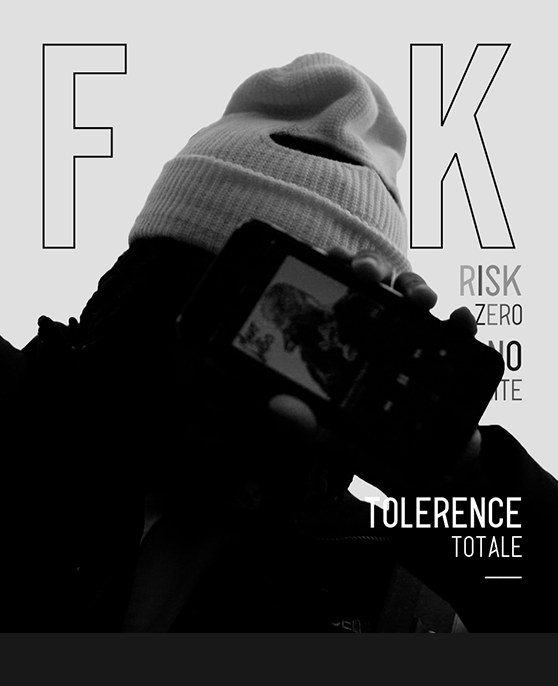
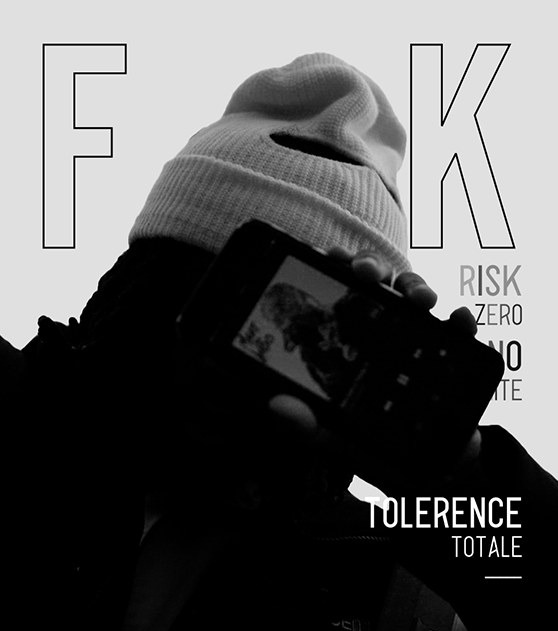
Accueil : retirer la bande de cadre cuite dans sport.jpg et studio.jpg  Les deux vignettes avaient été régénérées depuis un découpage de maquette pris pour une photo source, qui embarquait 55 px (Sport) et 73 px (Studio) de la couleur du cadre. La bande apparaissait dès que le JS agrandissait les vi

diff --git a/index.html b/index.html
@@ -1,5 +1,5 @@
 <!DOCTYPE html>
-<html lang="fr" data-build="20260902-0219">
+<html lang="fr" data-build="20260904-1633">
 <head>
 <meta charset="utf-8">
 <meta http-equiv="Cache-Control" content="no-cache, no-store, must-revalidate">
@@ -10,7 +10,7 @@
 <meta name="description" content="JP AYIVI, créateur d'images : réalisation, montage et motion design pour les marques, entreprises et institutions.">
 <link rel="preload" href="assets/fonts/JumperPERSONALUSEONLY-Black.ttf" as="font" type="font/ttf" crossorigin>
 <link rel="preload" href="assets/fonts/JumperPERSONALUSEONLY-Light.ttf" as="font" type="font/ttf" crossorigin>
-<link rel="stylesheet" href="assets/css/style.css?v=8b686db5">
+<link rel="stylesheet" href="assets/css/style.css?v=ea8efc0c">
 </head>
 <body class="home-page">
 <div class="pastille-cursor" aria-hidden="true"><span>Show<br>Reeel</span></div>
@@ -61,7 +61,7 @@
     <a class="card card--sport" href="sport.html">
       <span class="label">Sport</span>
       <span class="thumb">
-        <img src="media/sport.jpg" alt="Sport" loading="lazy">
+        <img src="media/sport.jpg?v=2" alt="Sport" loading="lazy">
         <video class="gif" src="media/sport_hover.mp4" muted loop autoplay playsinline></video>
       </span>
     </a>
@@ -101,7 +101,7 @@
     <a class="card card--studio" href="studio.html">
       <span class="label">Studio</span>
       <span class="thumb">
-        <img src="media/studio.jpg" alt="Studio" loading="lazy">
+        <img src="media/studio.jpg?v=2" alt="Studio" loading="lazy">
         <video class="gif" src="media/studio_hover.mp4" muted loop autoplay playsinline></video>
       </span>
     </a>
@@ -117,6 +117,6 @@
   </div>
 </div>
 
-<script src="assets/js/cursor.js?v=8ef6da95"></script>
+<script src="assets/js/cursor.js?v=de20defd"></script>
 </body>
 </html>

diff --git a/assets/js/cursor.js b/assets/js/cursor.js
@@ -373,6 +373,18 @@
     var k = 1;
     if (grille > placeCartes && grille > 0) k = Math.max(PLANCHER, placeCartes / grille);
 
+    /* La carte ouverte descend jusqu'à (B + 2R + reserve) * k. Les photos, elles,
+       ont une hauteur finie : la plus courte est Studio, 79,43 % de la largeur de
+       l'écran. Si le dévoilement passait sous ce trait, on verrait le fond du
+       cadre sous la photo. On borne donc R, ce qui fait simplement s'ouvrir la
+       carte un peu moins loin — invisible, et sans déformer l'image.
+       Sur les téléphones réels la borne n'intervient jamais (la marge la plus
+       serrée mesurée est de 11 % sur Pixel 7) ; elle ne protège que les formats
+       très étroits et très hauts. */
+    var PHOTO_LA_PLUS_COURTE = 0.7943;
+    var Rmax2 = (PHOTO_LA_PLUS_COURTE * L / k - B - reserve) / 2;
+    if (Rmax2 > 0 && R > Rmax2) R = Rmax2;
+
     home.style.setProperty('--carte-h',      ((B + R + reserve) * k).toFixed(2) + 'px');
     home.style.setProperty('--carte-mt',     '-' + ((R + reserve) * k).toFixed(2) + 'px');
     home.style.setProperty('--carte-sortie', '-' + (R * k).toFixed(2) + 'px');

diff --git a/assets/css/style.css b/assets/css/style.css
@@ -1366,6 +1366,15 @@ body:has(.gallery-wrap) .brand .sub{
     left:-2.500vw;  top:-9.166vw;  width:72.23vw;  height:88.61vw; transform:scaleX(-1); }
   .card--studio .thumb img,.card--studio .thumb video{
     left:-2.778vw;  top:-11.945vw; width:72.23vw;  height:88.89vw; }
+  /* Les PHOTOS Sport et Studio ont été raccourcies : elles traînaient une bande
+     unie de la couleur du cadre, cuite dans le fichier par un découpage de
+     maquette pris pour un original. Sport passe de 686 à 631 lignes, Studio de
+     686 à 613. Les hauteurs ci-dessus visaient l'ancien format ; on les corrige
+     du même rapport pour que l'ÉCHELLE et le cadrage restent au pixel ce qu'ils
+     étaient — seul le vide sous la photo disparaît. Les vidéos de survol, elles,
+     n'ont pas changé de format et gardent donc les valeurs d'origine. */
+  .card--sport  .thumb img{ height:96.83vw; }   /* 105,27 x 631/686 */
+  .card--studio .thumb img{ height:79.43vw; }   /*  88,89 x 613/686 */
 
   /* ---- Bandeau de contacts ----
      Relevé sur la maquette : bandeau de 160 px sur une image de 1080, soit

diff --git a/reseaux.html b/reseaux.html
@@ -1,5 +1,5 @@
 <!DOCTYPE html>
-<html lang="fr" data-build="20260902-0219">
+<html lang="fr" data-build="20260904-1633">
 <head>
 <meta charset="utf-8">
 <meta http-equiv="Cache-Control" content="no-cache, no-store, must-revalidate">
@@ -10,7 +10,7 @@
 <meta name="description" content="Réseaux Sociaux — contenus courts, formats verticaux et campagnes social media réalisés par JP AYIVI.">
 <link rel="preload" href="assets/fonts/JumperPERSONALUSEONLY-Black.ttf" as="font" type="font/ttf" crossorigin>
 <link rel="preload" href="assets/fonts/JumperPERSONALUSEONLY-Light.ttf" as="font" type="font/ttf" crossorigin>
-<link rel="stylesheet" href="assets/css/style.css?v=8b686db5">
+<link rel="stylesheet" href="assets/css/style.css?v=ea8efc0c">
 </head>
 <body>
 <div class="pastille-cursor" aria-hidden="true"><span>Show<br>Reeel</span></div>
@@ -135,6 +135,6 @@
   </nav>
 </footer>
 
-<script src="assets/js/cursor.js?v=8ef6da95"></script>
+<script src="assets/js/cursor.js?v=de20defd"></script>
 </body>
 </html>

diff --git a/motion.html b/motion.html
@@ -1,5 +1,5 @@
 <!DOCTYPE html>
-<html lang="fr" data-build="20260902-0219">
+<html lang="fr" data-build="20260904-1633">
 <head>
 <meta charset="utf-8">
 <meta http-equiv="Cache-Control" content="no-cache, no-store, must-revalidate">
@@ -10,7 +10,7 @@
 <meta name="description" content="Motion design — habillages, génériques et films d'animation réalisés par JP AYIVI.">
 <link rel="preload" href="assets/fonts/JumperPERSONALUSEONLY-Black.ttf" as="font" type="font/ttf" crossorigin>
 <link rel="preload" href="assets/fonts/JumperPERSONALUSEONLY-Light.ttf" as="font" type="font/ttf" crossorigin>
-<link rel="stylesheet" href="assets/css/style.css?v=8b686db5">
+<link rel="stylesheet" href="assets/css/style.css?v=ea8efc0c">
 </head>
 <body>
 <div class="pastille-cursor" aria-hidden="true"><span>Show<br>Reeel</span></div>
@@ -153,6 +153,6 @@
   </nav>
 </footer>
 
-<script src="assets/js/cursor.js?v=8ef6da95"></script>
+<script src="assets/js/cursor.js?v=de20defd"></script>
 </body>
 </html>

diff --git a/fashion.html b/fashion.html
@@ -1,5 +1,5 @@
 <!DOCTYPE html>
-<html lang="fr" data-build="20260902-0219">
+<html lang="fr" data-build="20260904-1633">
 <head>
 <meta charset="utf-8">
 <meta http-equiv="Cache-Control" content="no-cache, no-store, must-revalidate">
@@ -10,7 +10,7 @@
 <meta name="description" content="Fashion — défilés, films de mode et campagnes textiles réalisés par JP AYIVI.">
 <link rel="preload" href="assets/fonts/JumperPERSONALUSEONLY-Black.ttf" as="font" type="font/ttf" crossorigin>
 <link rel="preload" href="assets/fonts/JumperPERSONALUSEONLY-Light.ttf" as="font" type="font/ttf" crossorigin>
-<link rel="stylesheet" href="assets/css/style.css?v=8b686db5">
+<link rel="stylesheet" href="assets/css/style.css?v=ea8efc0c">
 </head>
 <body>
 <div class="pastille-cursor" aria-hidden="true"><span>Show<br>Reeel</span></div>
@@ -105,6 +105,6 @@
   </nav>
 </footer>
 
-<script src="assets/js/cursor.js?v=8ef6da95"></script>
+<script src="assets/js/cursor.js?v=de20defd"></script>
 </body>
 </html>

diff --git a/studio.html b/studio.html
@@ -1,5 +1,5 @@
 <!DOCTYPE html>
-<html lang="fr" data-build="20260902-0219">
+<html lang="fr" data-build="20260904-1633">
 <head>
 <meta charset="utf-8">
 <meta http-equiv="Cache-Control" content="no-cache, no-store, must-revalidate">
@@ -10,7 +10,7 @@
 <meta name="description" content="Studio · Natures mortes, packshots et contenus produits réalisés par JP AYIVI.">
 <link rel="preload" href="assets/fonts/JumperPERSONALUSEONLY-Black.ttf" as="font" type="font/ttf" crossorigin>
 <link rel="preload" href="assets/fonts/JumperPERSONALUSEONLY-Light.ttf" as="font" type="font/ttf" crossorigin>
-<link rel="stylesheet" href="assets/css/style.css?v=8b686db5">
+<link rel="stylesheet" href="assets/css/style.css?v=ea8efc0c">
 </head>
 <body>
 <div class="pastille-cursor" aria-hidden="true"><span>Show<br>Reeel</span></div>
@@ -103,6 +103,6 @@
   </nav>
 </footer>
 
-<script src="assets/js/cursor.js?v=8ef6da95"></script>
+<script src="assets/js/cursor.js?v=de20defd"></script>
 </body>
 </html>

diff --git a/communication.html b/communication.html
@@ -1,5 +1,5 @@
 <!DOCTYPE html>
-<html lang="fr" data-build="20260902-0219">
+<html lang="fr" data-build="20260904-1633">
 <head>
 <meta charset="utf-8">
 <meta http-equiv="Cache-Control" content="no-cache, no-store, must-revalidate">
@@ -10,7 +10,7 @@
 <meta name="description" content="Communication — films de marque, com interne et externe réalisés par JP AYIVI.">
 <link rel="preload" href="assets/fonts/JumperPERSONALUSEONLY-Black.ttf" as="font" type="font/ttf" crossorigin>
 <link rel="preload" href="assets/fonts/JumperPERSONALUSEONLY-Light.ttf" as="font" type="font/ttf" crossorigin>
-<link rel="stylesheet" href="assets/css/style.css?v=8b686db5">
+<link rel="stylesheet" href="assets/css/style.css?v=ea8efc0c">
 </head>
 <body>
 <div class="pastille-cursor" aria-hidden="true"><span>Show<br>Reeel</span></div>
@@ -89,6 +89,6 @@
   </nav>
 </footer>
 
-<script src="assets/js/cursor.js?v=8ef6da95"></script>
+<script src="assets/js/cursor.js?v=de20defd"></script>
 </body>
 </html>

diff --git a/evenementiel.html b/evenementiel.html
@@ -1,5 +1,5 @@
 <!DOCTYPE html>
-<html lang="fr" data-build="20260902-0219">
+<html lang="fr" data-build="20260904-1633">
 <head>
 <meta charset="utf-8">
 <meta http-equiv="Cache-Control" content="no-cache, no-store, must-revalidate">
@@ -10,7 +10,7 @@
 <meta name="description" content="Événementiel — captations et films d'événements réalisés par JP AYIVI.">
 <link rel="preload" href="assets/fonts/JumperPERSONALUSEONLY-Black.ttf" as="font" type="font/ttf" crossorigin>
 <link rel="preload" href="assets/fonts/JumperPERSONALUSEONLY-Light.ttf" as="font" type="font/ttf" crossorigin>
-<link rel="stylesheet" href="assets/css/style.css?v=8b686db5">
+<link rel="stylesheet" href="assets/css/style.css?v=ea8efc0c">
 </head>
 <body>
 <div class="pastille-cursor" aria-hidden="true"><span>Show<br>Reeel</span></div>
@@ -89,6 +89,6 @@
   </nav>
 </footer>
 
-<script src="assets/js/cursor.js?v=8ef6da95"></script>
+<script src="assets/js/cursor.js?v=de20defd"></script>
 </body>
 </html>

diff --git a/food.html b/food.html
@@ -1,5 +1,5 @@
 <!DOCTYPE html>
-<html lang="fr" data-build="20260902-0219">
+<html lang="fr" data-build="20260904-1633">
 <head>
 <meta charset="utf-8">
 <meta http-equiv="Cache-Control" content="no-cache, no-store, must-revalidate">
@@ -10,7 +10,7 @@
 <meta name="description" content="Food — cocktails, pizze et films culinaires réalisés par JP AYIVI.">
 <link rel="preload" href="assets/fonts/JumperPERSONALUSEONLY-Black.ttf" as="font" type="font/ttf" crossorigin>
 <link rel="preload" href="assets/fonts/JumperPERSONALUSEONLY-Light.ttf" as="font" type="font/ttf" crossorigin>
-<link rel="stylesheet" href="assets/css/style.css?v=8b686db5">
+<link rel="stylesheet" href="assets/css/style.css?v=ea8efc0c">
 </head>
 <body>
 <div class="pastille-cursor" aria-hidden="true"><span>Show<br>Reeel</span></div>
@@ -124,6 +124,6 @@
   </nav>
 </footer>
 
-<script src="assets/js/cursor.js?v=8ef6da95"></script>
+<script src="assets/js/cursor.js?v=de20defd"></script>
 </body>
 </html>

diff --git a/sport.html b/sport.html
@@ -1,5 +1,5 @@
 <!DOCTYPE html>
-<html lang="fr" data-build="20260902-0219">
+<html lang="fr" data-build="20260904-1633">
 <head>
 <meta charset="utf-8">
 <meta http-equiv="Cache-Control" content="no-cache, no-store, must-revalidate">
@@ -10,7 +10,7 @@
 <meta name="description" content="Sport — tennis, basket et films de terrain réalisés par JP AYIVI.">
 <link rel="preload" href="assets/fonts/JumperPERSONALUSEONLY-Black.ttf" as="font" type="font/ttf" crossorigin>
 <link rel="preload" href="assets/fonts/JumperPERSONALUSEONLY-Light.ttf" as="font" type="font/ttf" crossorigin>
-<link rel="stylesheet" href="assets/css/style.css?v=8b686db5">
+<link rel="stylesheet" href="assets/css/style.css?v=ea8efc0c">
 </head>
 <body>
 <div class="pastille-cursor" aria-hidden="true"><span>Show<br>Reeel</span></div>
@@ -105,6 +105,6 @@
   </nav>
 </footer>
 
-<script src="assets/js/cursor.js?v=8ef6da95"></script>
+<script src="assets/js/cursor.js?v=de20defd"></script>
 </body>
 </html>

diff --git a/showreel.html b/showreel.html
@@ -1,5 +1,5 @@
 <!DOCTYPE html>
-<html lang="fr" data-build="20260902-0219">
+<html lang="fr" data-build="20260904-1633">
 <head>
 <meta charset="utf-8">
 <meta http-equiv="Cache-Control" content="no-cache, no-store, must-revalidate">
@@ -10,7 +10,7 @@
 <meta name="description" content="Showreel de JP AYIVI — réalisation, montage et motion design.">
 <link rel="preload" href="assets/fonts/JumperPERSONALUSEONLY-Black.ttf" as="font" type="font/ttf" crossorigin>
 <link rel="preload" href="assets/fonts/JumperPERSONALUSEONLY-Light.ttf" as="font" type="font/ttf" crossorigin>
-<link rel="stylesheet" href="assets/css/style.css?v=8b686db5">
+<link rel="stylesheet" href="assets/css/style.css?v=ea8efc0c">
 </head>
 <body>
 <div class="pastille-cursor" aria-hidden="true"><span>Show<br>Reeel</span></div>
@@ -69,6 +69,6 @@
   </nav>
 </footer>
 
-<script src="assets/js/cursor.js?v=8ef6da95"></script>
+<script src="assets/js/cursor.js?v=de20defd"></script>
 </body>
 </html>
